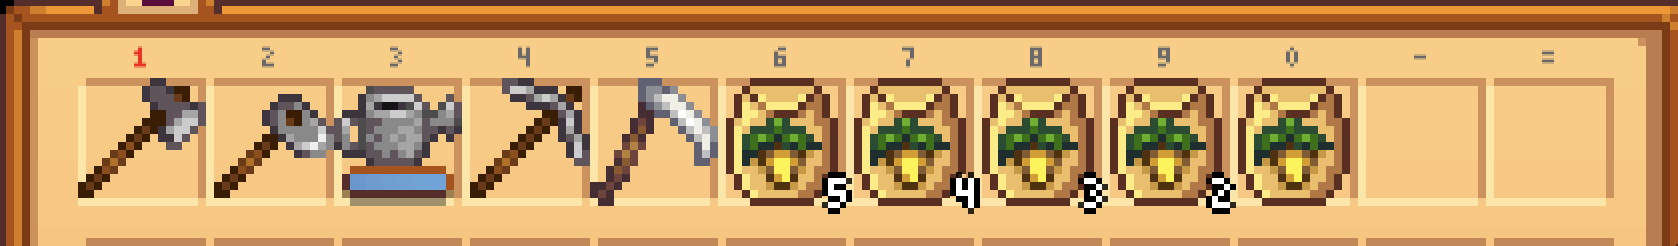
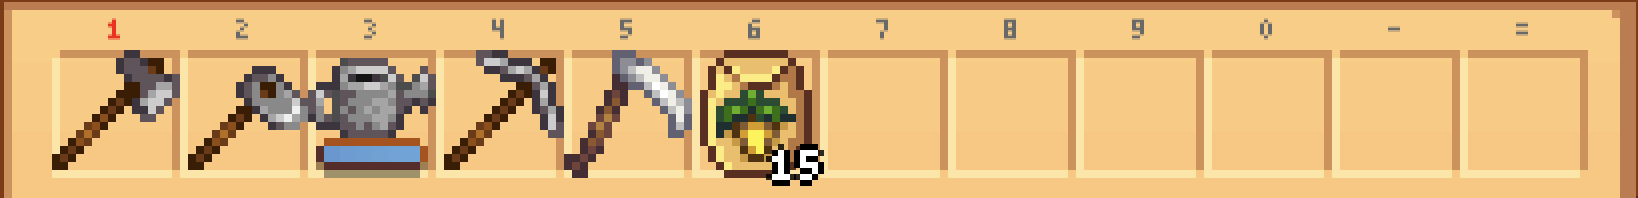
update readme

diff --git a/README.md b/README.md
@@ -10,8 +10,10 @@ It uses inventory layout to send a lengthy message using a small amount of data.
 The default starting inventory can be laid out as such to produce 6 different values.
 ![Player Inventory](./public/player-inventory.png)
 
-But the parsnips can be split into multiple stacks allowing for an even greater variance of inventory layouts. 
+But the parsnip seeds can be split into multiple stacks allowing for an even greater variance of inventory layouts. 
 ![Player Inventory 2](./public/player-inventory-2.png)
 
 
-Running the calculations there are 5,157,250,560 possible inventory layouts just with the starting items, which is a bit over 32 bits (4 bytes) of data. This means that by rearranging the hotbar we can transmit 4 bytes of data each time the game is saved.
+Running the calculations there are 5,157,250,560 possible inventory layouts just with the starting items, which is a bit over 32 bits (4 bytes) of data. This means that by rearranging the hotbar we can transmit 4 bytes of data each time the game is saved by associating each hotbar layout with a value.
+
+![Hotbar Dictionary Diagram](./public/dictionary-diagram.png)
